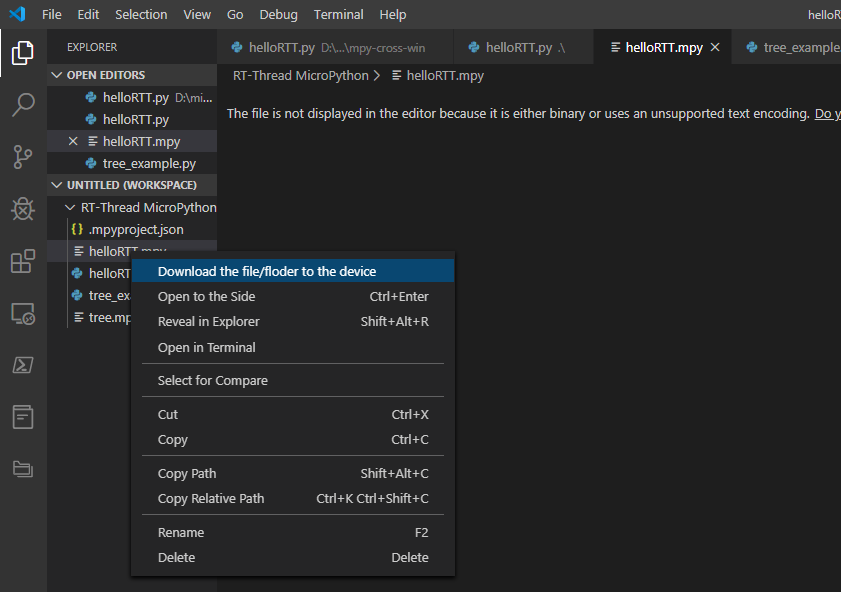
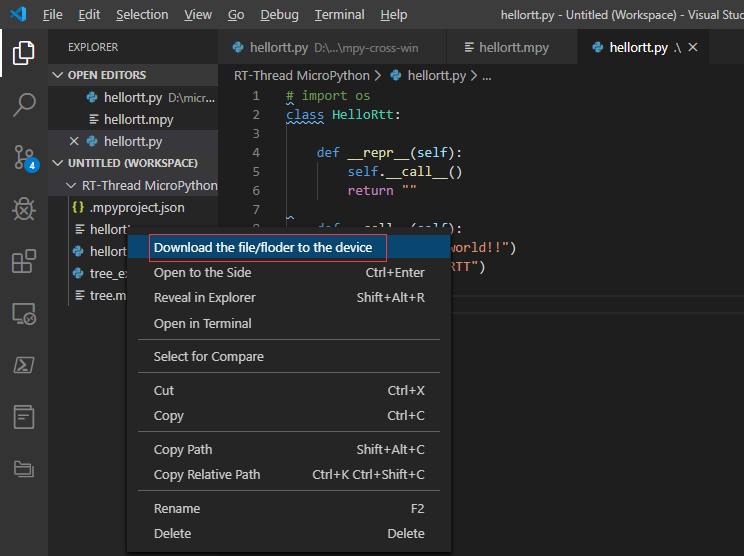
update mpy usage guidance document and tools

diff --git a/tools/mpy-cross-win/hellortt.py b/tools/mpy-cross-win/hellortt.py
@@ -1,12 +1,12 @@
 # import os
-class HELLORTT:
+class HelloRtt:
 
     def __repr__(self):
         self.__call__()
         return ""
     
     def __call__(self):
-        print("--helloworld!!")
-        print("--helloRTT")
+        print("hello world!!")
+        print("hello RTT")
 
-hello = HELLORTT()
+hello = HelloRtt()

diff --git a/docs/tools-mpy-cross.md b/docs/tools-mpy-cross.md
@@ -1,45 +1,39 @@
-## 使用 mpy-cross.exe 工具
+# 生成并运行 .mpy 文件
 
-在某些需求场合下， Python 可以编译成 .pyc 字节码文件，使用这类预先编译好的二进制文件，可以一定程度上保护源代码，同时可以提高程序的加载速度。在 micropython 中同样地提供了类似的功能，能够将 .py 文件编译成 .mpy 文件。下文将使用**潘多拉开发板/ stm32 F411 Nucleo **开发 .mpy 示例工程。
+Python 工程中，.py 文件可以被编译成 .pyc 字节码文件。使用这类预先编译好的二进制文件的优势是一定程度上能够保护源代码，同时可以提高程序的加载速度。在 micropython 中同样地提供了类似的功能，能够将 .py 文件编译成 .mpy 文件，并且能够在MCU内直接运行，减少资源消耗的同时提高了程序的加载速度。本篇演示使用潘多拉开发板，以 hello world 工程为例，编译并运行该 demo 。
 
-### 生成 mpy 文件
+### 使用 mpy-cross 工具编译
 
-micropython 官方 git 源码中，提供了可供编译的 mpy-cross 源码，方便开发者编译自己系统环境的 mpy-cross 软件。
+RT-Thread 为开发者提供了便利的开发环境 ，针对 windows 平台提供了可以直接运行的 mpy-cross.exe ，无需拖带 Linux 环境，轻量且速度快。
 
-针对 windows 平台，有两种常见运行 mpy-cross 方式：
-
-- 使用 msys 或 cygwin 这类小型 GNU 环境，能够使用 bash 和 make ，不过需要拖带庞大的运行时库，且速度较慢。
-
-- 直接适配 windows 平台编译并运行 mpy-cross.exe ，无需拖带环境，轻量且速度快。
-
-为了便捷，本文将在 windows 环境中，使用软件包中提供的 mpy-cross.exe 软件。
+本文将在 windows 环境中，使用软件包中提供的 mpy-cross.exe 软件。
 
 在 RT-Thread/micropython 项目里找到 tools 文件夹，下载 mpy-cross.exe 。
 
-这里以 `helloRTT.py` 示例：
+这里以 `hellortt.py` 示例：
 
 ```python
-class HELLORTT:
+class HelloRtt:
   def __repr__(self):
      self.__call__()
      return ""
 
   def __call__(self):
-     print("--helloworld!!")
-     print("--helloRTT")
+     print("hello world!!")
+     print("hello RTT")
 
-hello = HELLORTT()
+hello = HelloRtt()
 ```
 
-首先将需要被编译的 ` helloRTT.py `文件拖入到 mpy-cross.exe 所在文件夹中，在按住shift键的同时，点击鼠标右键，选择`在此处打开 Powershell 窗口`（ cmd 窗口在这里也是可以使用的）。然后在 Powershell 中，键入`.\mpy-cross.exe ` 后面接上需要编译的工程`helloRTT.py`：
+首先将需要被编译的 `hellortt.py` 文件拖入到 mpy-cross.exe 所在文件夹中，在按住 shift 键的同时，点击鼠标右键，选择 `在此处打开 Powershell 窗口`（ cmd 窗口在这里也是可以使用的）。然后在 Powershell 中，键入 `.\mpy-cross.exe` 后面接上需要编译的工程 `hellortt.py` ：
 
 ![powershell_mpycross_deploy](assets/powershell_mpycross_deploy.PNG)
 
-此时如果编译成功将会生成mpy文件，上图编译成功后，在文件夹中生成了`helloRTT.mpy`文件。我们将`helloRTT.mpy`拷贝到MCU的文件系统上，便可以像 .py 文件一样被 import 并调用。
+此时如果编译成功将会生成 mpy 文件，上图编译成功后，在文件夹中生成了 `hellortt.mpy` 文件。我们将 `hellortt.mpy` 拷贝到 MCU 的文件系统上，便可以像 .py 文件一样被 import 并调用。
 
 ### 拷贝至MCU文件系统中
 
-将生成好的 .mpy 文件，拷贝至 MicroPython IDE 的工程中，并选中它，右键下载到MCU中，如图：
+将生成好的 .mpy 文件，拷贝至 MicroPython IDE 的工程中，并选中它，右键下载到开发板的文件系统中，如图：
 
 ![tools-mpy-download](assets/tools-mpy-download.png)
 
@@ -47,4 +41,5 @@ hello = HELLORTT()
 
 ![mpy-usage-demo](assets/mpy-usage-demo.png)
 
-如果运行时出现`“ValueError: invalid .mpy file”`错误，有可能是 MCU上 的 micropython 固件与 mpy-cross 所在的版本固件不相符（当前使用的是v1.12版本），需要使用相同版本的 mpy-cross 软件，或 MCU 使用相同版本的固件， mpy 文件才能正常运行。
+如果运行时出现 `ValueError: invalid .mpy file` 错误，有可能是 MCU 上 的 micropython 固件与 mpy-cross 版本固件不相符所致，当前提供的 mpy-cross 工具支持 v1.12 版本的固件 。
+
